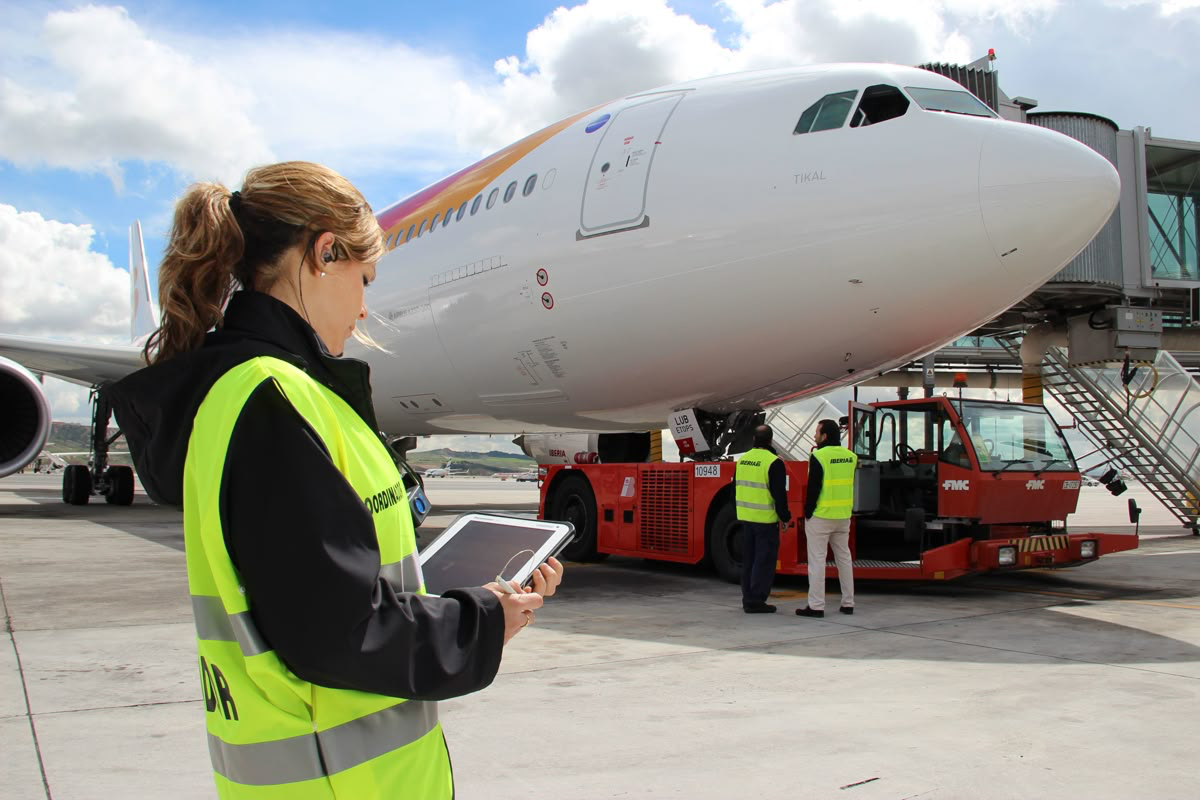
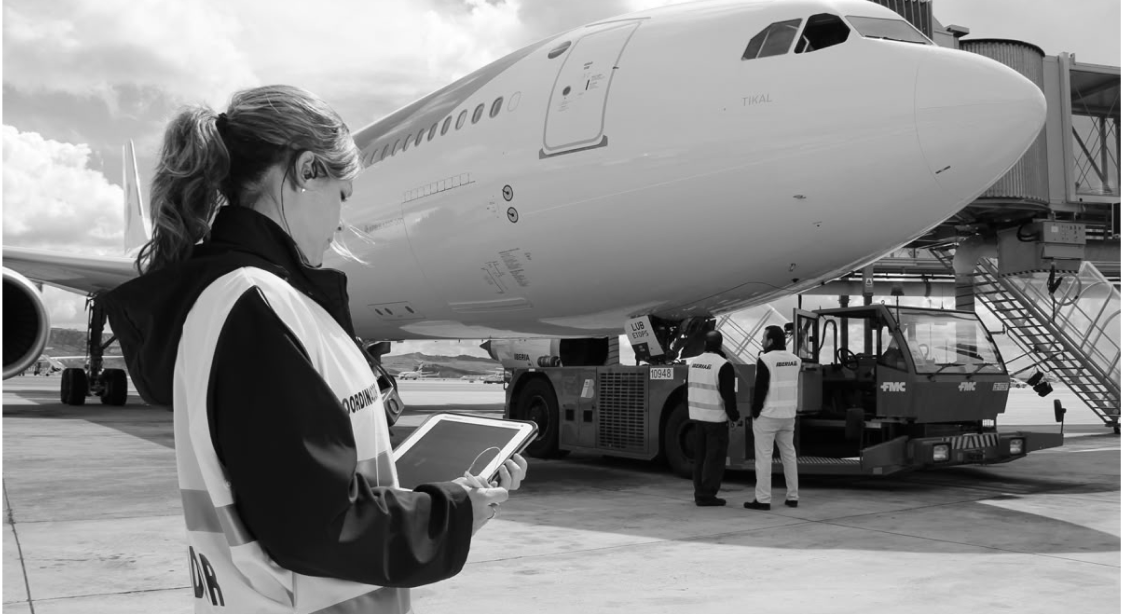
new changes

diff --git a/src/pages/projects/PreFlight-VR.tsx b/src/pages/projects/PreFlight-VR.tsx
@@ -44,9 +44,9 @@ const PreFlightVR = () => {
       <Navigation />
 
       {/* Hero Section - concise summary, visual */}
-      <section className="relative py-24 bg-slate-900 text-white overflow-hidden text-white">
+      <section className="relative py-24 bg-slate-900 text-white overflow-hidden text-white ">
         <div className="container mx-auto px-4">
-          <div className="max-w-6xl mx-auto text-center">
+          <div className="max-w-7xl mx-auto text-center">
             <Button
               asChild
               variant="ghost"
@@ -57,10 +57,10 @@ const PreFlightVR = () => {
                 Back to Projects
               </Link>
             </Button>
-            <h1 className="text-4xl md:text-5xl font-bold mb-6 text-white">
+            <h1 className="text-2xl md:text-5xl font-bold mb-6 text-white">
               Preflight Maintenance Check VR
             </h1>
-            <p className="text-lg text-white mb-8">
+            <p className="text-lg text-white max-w-5xl mx-auto leading-relaxed mb-8 font-light">
               VR-based pre-flight maintenance training simulation to address
               costly, risky, and hands-off traditional methods. Guided
               inspection and independent practice in a safe, immersive
@@ -140,6 +140,66 @@ const PreFlightVR = () => {
         </div>
       </section>
 
+      {/* Aim + Methodology */}
+      <section className="py-12 bg-slate-900 text-white">
+        <div className="container mx-auto px-4 max-w-7xl">
+       <div> 
+                <h2 className="text-4xl font-bold mb-2 text-white text-center">
+                  Cognitive Human Factors
+                </h2>
+                <p className="text-white font-light text-sm leading-relaxed mb-6 text-center">
+                   Focus on how humans perceive, process and respond to information in system interactions.
+                </p>
+                <div className="grid sm:grid-cols-2 gap-4 text-sm text-muted-foreground">
+                  <div className="rounded-xl border border-blue-200/60 bg-slate-100 p-4 shadow-sm">
+                    <h3 className="text-blue-900 font-semibold mb-2">
+                      What We Learned
+                    </h3>
+                    <p>
+                     Focuses on how humans perceive, process, and respond to information during system interactions.
+Involves understanding attention, memory, perception, and decision-making to design intuitive and error-free experiences.
+In XR, aims to reduce cognitive load, ensure clear feedback, and create information layouts that support quick recognition and response.
+                    </p>
+                  </div>
+                  <div className="rounded-xl border border-sky-200/60 bg-slate-100 p-4 shadow-sm">
+                    <h3 className="text-blue-900 font-semibold mb-2">
+                      How It Was Applied in the Project
+                    </h3>
+                    <p>
+                     Critical information (tool status, inspection alerts) placed within the primary visual field for faster comprehension.
+Sequential task flow used to minimize memory load and guide users step-by-step.
+Added visual and audio feedback cues to confirm user actions and improve system understanding.
+Designed context-based menus and prompts so users could focus on the maintenance process without distractions.
+Ensured all interactions followed cognitive ergonomics principles, improving focus, decision-making, and overall task accuracy.
+
+                    </p>
+                  </div>
+                </div>
+              </div>
+        </div>
+      </section>
+
+
+       {/* Communication Loop */}
+      <section className="py-16 bg-slate-900 text-white">
+        <div className="container max-w-4xl mx-auto px-4 py-6 rounded-xl shadow-lg overflow-hidden bg-slate-900 grid sm:grid-cols-1 gap-4 ">
+          <div className="max-w-4xl mx-auto text-center mb-10 gap-8">
+            <img
+              src="/Photos/Flight/15.png"
+              alt="Human Factors reference"
+              className="rounded-xl aspect-16/9 object-fit"
+            />
+        </div>
+            {/* <div className="max-w-4xl mx-auto text-center mb-10 gap-8">
+            <img
+              src="/Photos/Flight/16.png"
+              alt="Human Factors reference"
+              className="rounded-xl aspect-16/9 object-fit"
+            />
+          </div>*/}
+        </div>
+      </section>
+
 
 
 
@@ -184,7 +244,7 @@ const PreFlightVR = () => {
       {/* Storyboarding Section - images only */}
       <section className="py-16 bg-slate-900 text-white">
         <div className="container mx-auto px-4">
-          <div className="max-w-6xl mx-auto text-center mb-10">
+          <div className="max-w-7xl mx-auto text-center mb-10">
             <h2 className="text-3xl font-bold mb-4">Storyboarding</h2>
             <p className="text-lg text-muted-grey font-light mb-6">
               Visualizing the trainee journey from guided session to independent
@@ -192,17 +252,17 @@ const PreFlightVR = () => {
             </p>
             <div className="grid md:grid-cols-1 gap-12 bg-white py-24 px-14 rounded-lg">
               <img
-                src="/Photos/Flight/10.png"
+                src="/Photos/Flight/14.png"
                 alt="Storyboard sketch details"
                 className="rounded-lg  w-full object-cover aspect-16/9"
               />
               <img
-                src="/Photos/Flight/11.png"
+                src="/Photos/Flight/3.png"
                 alt="Journey mapping with sticky notes"
                 className="rounded-lg w-full object-cover aspect-16/9"
               />
               <img
-                src="/Photos/Flight/12.png"
+                src="/Photos/Flight/4.png"
                 alt="Desk setup for sketching"
                 className="rounded-lg w-full object-cover aspect-16/9"
               />
@@ -214,7 +274,7 @@ const PreFlightVR = () => {
       {/* Human Factors Section - reference image only */}
       <section className="py-16 bg-slate-900 text-white">
         <div className="container mx-auto px-4">
-          <div className="max-w-6xl mx-auto text-center mb-10 gap-8">
+          <div className="max-w-7xl mx-auto text-center mb-10 gap-8">
             <img
               src="/Photos/Flight/6.jpg"
               alt="Human Factors reference"
